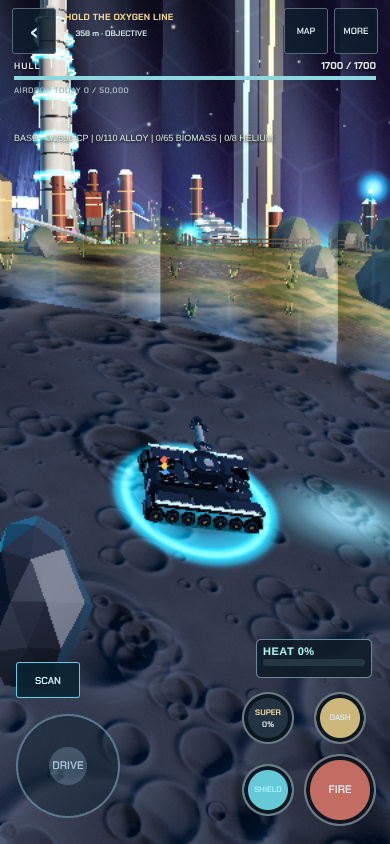
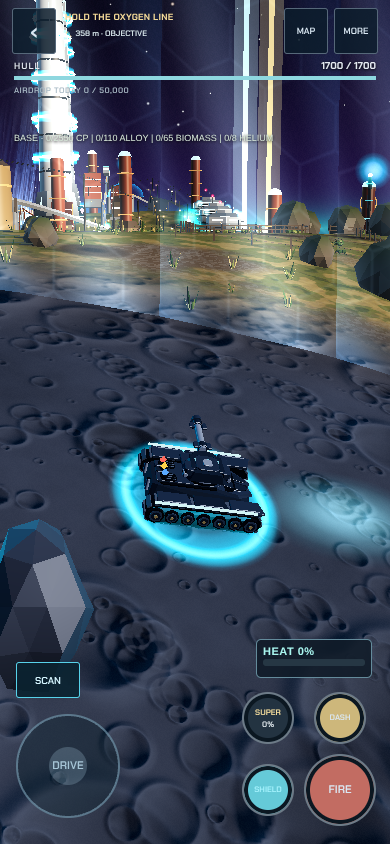
perf(conquest): atmosphere veil drawn by the FX program — HIGH back to 16 material programs (README budget); build stamp 20261108092850
CI transmission (Chromium/WebKit) measured 17 HIGH material programs after the Phase 2 water and the art-pass veil.
The veil keeps its exact look (raw additive, no fog/tone mapping) via an early-return branch selected by aCol.a < 0.
Local: conquest-living-war.py --quality high PASS, 16 programs, 73 max draws.

Claude-Session: https://claude.ai/code/session_014ynx7xCv3tSDnJ7wyXFxPb

diff --git a/js/conquest/style.js b/js/conquest/style.js
@@ -163,20 +163,27 @@ void main(){vec3 N=normalize(vN),L=uSunV,R=uRimV,UP=uUpV; // view-space light di
 #include <fog_fragment>
 }`;
 // Billboards (aBill.z = 1) expand in view space by aBill.xy × the object's scale, so pooled effects scale with the mesh.
-const FX_VS=`attribute vec4 aCol;attribute vec3 aBill;uniform vec3 uKind[4];varying vec4 vCol;varying vec2 vUv;
+const FX_VS=`attribute vec4 aCol;attribute vec3 aBill;uniform vec3 uKind[4];varying vec4 vCol;varying vec2 vUv;varying vec3 vWP;
 #include <common>
 #include <fog_pars_vertex>
-void main(){vUv=uv;vCol=aCol;vec4 mvPosition=vec4(position,1.);float bs=length(modelMatrix[0].xyz);   // a billboard's 4 corners store its centre (merged Fx) or the origin (instanced P.bill)
+void main(){vUv=uv;vCol=aCol;vWP=(modelMatrix*vec4(position,1.)).xyz;vec4 mvPosition=vec4(position,1.);float bs=length(modelMatrix[0].xyz);   // a billboard's 4 corners store its centre (merged Fx) or the origin (instanced P.bill)
 #ifdef USE_INSTANCING
  mvPosition=instanceMatrix*mvPosition;bs*=length(instanceMatrix[0].xyz);float k=instanceMatrix[2].z;vCol.rgb*=k<1.5?uKind[0]:k<2.5?uKind[1]:k<3.5?uKind[2]:uKind[3];
 #endif
  mvPosition=modelViewMatrix*mvPosition;mvPosition.xy+=aBill.xy*bs;mvPosition.z+=length(aBill.xy)*bs*.55;gl_Position=projectionMatrix*mvPosition;
 #include <fog_vertex>
 }`;
-const FX_FS=`uniform sampler2D uMap;uniform float uFade;varying vec4 vCol;varying vec2 vUv;
+const FX_FS=`uniform sampler2D uMap;uniform float uFade,uTime,uAtmo,uHigh;varying vec4 vCol;varying vec2 vUv;varying vec3 vWP;
 #include <common>
 #include <fog_pars_fragment>
-void main(){vec4 t=texture2D(uMap,vUv);vec3 e=vCol.rgb*t.r*uFade;float o=vCol.a*t.g*uFade;
+float hexL(vec2 p){const vec2 r=vec2(1.,1.7320508);vec2 h=r*.5;vec2 a=mod(p,r)-h;vec2 b=mod(p-h,r)-h;vec2 g=dot(a,a)<dot(b,b)?a:b;vec2 q=abs(g);return .5-max(dot(q,vec2(.5,.8660254)),q.x);}
+void main(){vec4 t=texture2D(uMap,vUv);
+ // The atmosphere boundary veil (aCol.a < 0): rising light bands + faint hex lattice, strongest at the ground and at grazing
+ // angles; raw additive output (alpha 0 under premultiplied blending), no fog, tone mapping or colour conversion, as authored.
+ if(vCol.a<0.){vec3 V=normalize(cameraPosition-vWP);float y=vUv.y,base=exp(-y*3.)*.9+exp(-y*.8)*.4+exp(-y*60.)*1.5,band=.5+.5*sin(vUv.x*.21+y*9.-uTime*1.3),sh=.6+.4*sin(vUv.x*.9-uTime*2.1+y*14.);
+  float hx=uHigh>.5?(1.-smoothstep(0.,.04,hexL(vec2(vUv.x*.25,y*14.))))*.18:0.;float graz=1.-abs(V.y)*.5;float a=(base*(.55+.45*band)*sh+hx*exp(-y*2.))*graz*mix(1.,.14,uAtmo)*smoothstep(1.,.55,y);
+  gl_FragColor=vec4(mix(vec3(.35,.7,1.),vec3(.75,.9,1.),band)*a*.42,0.);return;}
+ vec3 e=vCol.rgb*t.r*uFade;float o=vCol.a*t.g*uFade;
 #ifdef USE_FOG
  float f=1.-smoothstep(fogNear,fogFar,vFogDepth);e*=f;o*=f;
 #endif
@@ -215,16 +222,6 @@ void main(){vec3 d=normalize(vDir);vec3 col;
 #include <tonemapping_fragment>
 #include <colorspace_fragment>
 }`;
-// The atmosphere boundary: an additive shimmering veil (rising light bands + faint hex lattice), strongest at the ground and
-// at grazing view angles, so crossing the zone edge reads as passing through the atmosphere of another world.
-const VEIL_VS=`varying vec2 vUv;varying vec3 vWP;
-#include <common>
-void main(){vUv=uv;vec4 wp=modelMatrix*vec4(position,1.);vWP=wp.xyz;gl_Position=projectionMatrix*viewMatrix*wp;}`;
-const VEIL_FS=`uniform float uTime,uAtmo,uHigh;varying vec2 vUv;varying vec3 vWP;
-float hexL(vec2 p){const vec2 r=vec2(1.,1.7320508);vec2 h=r*.5;vec2 a=mod(p,r)-h;vec2 b=mod(p-h,r)-h;vec2 g=dot(a,a)<dot(b,b)?a:b;vec2 q=abs(g);return .5-max(dot(q,vec2(.5,.8660254)),q.x);}
-void main(){vec3 V=normalize(cameraPosition-vWP);float y=vUv.y,base=exp(-y*3.)*.9+exp(-y*.8)*.4+exp(-y*60.)*1.5,band=.5+.5*sin(vUv.x*.21+y*9.-uTime*1.3),sh=.6+.4*sin(vUv.x*.9-uTime*2.1+y*14.);
- float hx=uHigh>.5?(1.-smoothstep(0.,.04,hexL(vec2(vUv.x*.25,y*14.))))*.18:0.;float graz=1.-abs(V.y)*.5;float a=(base*(.55+.45*band)*sh+hx*exp(-y*2.))*graz*mix(1.,.14,uAtmo)*smoothstep(1.,.55,y);
- vec3 c=mix(vec3(.35,.7,1.),vec3(.75,.9,1.),band)*a*.42;gl_FragColor=vec4(c,1.);}`;   // additive (SRC_ALPHA, ONE): alpha 1 adds c
 // Energy shell: additive fresnel rim + moving hex scan, transparent, never writes depth.
 const SHIELD_VS=`varying vec3 vN;varying vec3 vV;varying vec3 vP;
 void main(){vP=position;vec4 mv=modelViewMatrix*vec4(position,1.);vN=normalize(normalMatrix*normal);vV=-mv.xyz;gl_Position=projectionMatrix*mv;}`;
@@ -355,7 +352,6 @@ function create(T,opts={}){
    uZenith:{value:V3(.0002,.0003,.0009)},uBandA:{value:V3(0,.2,.19)},uBandB:{value:V3(.045,.012,.11)},uFogC:{value:V3(.0018,.0021,.0048)}},{fog:false,depthWrite:false,side:T.DoubleSide})};
  const shieldMat=(color,opacity,hexK=1,side=T.DoubleSide)=>{const m=new T.ShaderMaterial({uniforms:{uColor:{value:lin(color)},uTime:U.uTime,uOpacity:{value:opacity},uHex:{value:hexK}},vertexShader:SHIELD_VS,fragmentShader:SHIELD_FS,transparent:true,premultipliedAlpha:true,depthWrite:false,blending:T.AdditiveBlending,side});m.userData.motionSkip=true;m.userData.conquestStyle=true;return m;};
  MAT.shield=shieldMat(0x48d8ff,.85);MAT.field=shieldMat(0x2dd4ff,.32,.12,T.FrontSide);
- MAT.veil=new T.ShaderMaterial({uniforms:{uTime:U.uTime,uAtmo:U.uAtmo,uHigh:U.uHigh},vertexShader:VEIL_VS,fragmentShader:VEIL_FS,transparent:true,depthWrite:false,blending:T.AdditiveBlending,side:T.DoubleSide});MAT.veil.userData.conquestStyle=true;MAT.veil.userData.motionSkip=true;
  // Additive glow/decal draws are never tap targets (view pick() and the browser bots skip userData.noPick).
  const fxMesh=(geo,order=2)=>{const m=new T.Mesh(geo,MAT.fx);m.renderOrder=order;m.userData.noPick=true;return m;};
  const S={id:'neon-frontline',version:1,low,high,software,T,U,MAT,G,AT,SIGN,K,tex,footprints:F,shared:[],ground};
@@ -656,8 +652,9 @@ const billGeo=(r,col,o=0)=>{const X=new Fx();X.keep=true;X.bill(0,0,0,1,r,col,o)
    P.push(a[0],ya,a[1],b[0],yb,b[1],b[0]+(c[0]-b[0])/ib*lean,yb+H,b[1]+(c[1]-b[1])/ib*lean,a[0]+(c[0]-a[0])/ia*lean,ya+H,a[1]+(c[1]-a[1])/ia*lean);const L=Math.hypot(b[0]-a[0],b[1]-a[1]);Q.push(0,0,L,0,L,1,0,1);I.push(n,n+1,n+2,n,n+2,n+3);};
   const lerp=(p,q,a,b)=>{const t=a/(a-b);return [p[0]+(q[0]-p[0])*t,p[1]+(q[1]-p[1])*t];};
   for(let j=0;j<nz;j++)for(let i=0;i<nx;i++){const c=[[i,j],[i+1,j],[i+1,j+1],[i,j+1]].map(([a,b])=>[x0+a*step,z0+b*step,v(a,b)]),e=[];for(let k=0;k<4;k++){const p=c[k],q=c[(k+1)%4];if(p[2]>0!==q[2]>0)e.push(lerp(p,q,p[2],q[2]));}if(e.length===2)seg(e[0],e[1]);else if(e.length===4){seg(e[0],e[1]);seg(e[2],e[3]);}}
-  const geo=new T.BufferGeometry();geo.setAttribute('position',new T.Float32BufferAttribute(P,3));geo.setAttribute('uv',new T.Float32BufferAttribute(Q,2));geo.setIndex(I);geo.computeBoundingSphere();
-  const m=new T.Mesh(geo,MAT.veil);m.renderOrder=4;m.frustumCulled=false;m.userData.noPick=true;m.name='cq-atmosphere-veil';return m;};
+  const nV=P.length/3,geo=new T.BufferGeometry();geo.setAttribute('position',new T.Float32BufferAttribute(P,3));geo.setAttribute('uv',new T.Float32BufferAttribute(Q,2));
+  geo.setAttribute('aCol',new T.Float32BufferAttribute(new Float32Array(nV*4).map((_,i)=>i%4===3?-1:1),4));geo.setAttribute('aBill',new T.Float32BufferAttribute(new Float32Array(nV*3),3));geo.setIndex(I);geo.computeBoundingSphere();
+  const m=new T.Mesh(geo,MAT.fx);m.renderOrder=4;m.frustumCulled=false;m.userData.noPick=true;m.name='cq-atmosphere-veil';return m;};
 
  // ---------- sky + lights ----------
  S.environment=(scene,renderer)=>{
@@ -939,7 +936,7 @@ const billGeo=(r,col,o=0)=>{const X=new Fx();X.keep=true;X.bill(0,0,0,1,r,col,o)
  // Static groups are culled by distance (they are far apart); cheap per-frame loop.
  S.cull=(groups,p)=>{const k=software?.4:1;for(const g of groups){const s=g.userData.site;if(s)g.visible=Math.hypot(s.x-p.x,s.z-p.z)<s.range*k;}};
  // Compile every program variant once (static + instanced solid/fx, sky, terrain, shields) before play.
- S.warmObjects=()=>{const objs=[new T.Mesh(G.box,MAT.solid),new T.InstancedMesh(G.box,MAT.solid,1),new T.Mesh(P.bill,MAT.fx),new T.InstancedMesh(P.bill,MAT.fx,1),new T.Mesh(G.ico,MAT.shield),new T.Mesh(G.ico,MAT.field),new T.Mesh(waterWarmGeo,MAT.water),new T.Mesh(waterWarmGeo,MAT.veil)];
+ S.warmObjects=()=>{const objs=[new T.Mesh(G.box,MAT.solid),new T.InstancedMesh(G.box,MAT.solid,1),new T.Mesh(P.bill,MAT.fx),new T.InstancedMesh(P.bill,MAT.fx,1),new T.Mesh(G.ico,MAT.shield),new T.Mesh(G.ico,MAT.field),new T.Mesh(waterWarmGeo,MAT.water)];
   for(const o of objs)if(o.isInstancedMesh){o.setMatrixAt(0,new T.Matrix4());o.instanceMatrix.needsUpdate=true;}return objs;};
  S.canvas={bg:'#03060c',grid:'#12303d',cover:'#3c2a46',coverEdge:'#ff4fd8',site:'#8ff6ff',hostile:'#ff4fd8',friend:'#3fe9ff',beacon:['#3fe9ff','#ffc45a'],shot:'#d8faff',enemyShot:'#ff6bd6'};
  S.dispose=()=>{for(const g of S.shared)g.dispose();for(const m of Object.values(MAT))m.dispose();tex.atlas.dispose();tex.earth.dispose();tex.detail.dispose();glowCache.clear();ringCache.clear();batteryCache=droneCache=null;S.shared.length=0;};

diff --git a/index.html b/index.html
@@ -19,7 +19,7 @@
 <script>
 // Auto-update: phones and GitHub's CDN can keep an old copy for ~10 min. version.json is fetched fresh;
 // if it's newer than this page, reload with ?v=<new> (a URL the cache has never seen). Telegram data in the #hash is kept.
-window.BUILD='20261108090757';
+window.BUILD='20261108092850';
 fetch('version.json?t='+Date.now(),{cache:'no-store'}).then(r=>r.json()).then(j=>{
  const q=new URLSearchParams(location.search);
  if(j&&j.v&&j.v!==window.BUILD&&q.get('v')!==j.v){q.set('v',j.v);location.replace(location.pathname+'?'+q.toString()+location.hash);}
@@ -30,13 +30,13 @@ fetch('version.json?t='+Date.now(),{cache:'no-store'}).then(r=>r.json()).then(j=
 <link rel="preconnect" href="https://warmachines-a6034-default-rtdb.firebaseio.com">
 <link rel="preload" href="fonts/chakra-petch-700.woff" as="font" type="font/woff" crossorigin>
 <link rel="preload" href="fonts/chakra-petch-600.woff" as="font" type="font/woff" crossorigin>
-<link rel="stylesheet" href="css/app.css?v=20261108090757">
+<link rel="stylesheet" href="css/app.css?v=20261108092850">
 <link rel="icon" type="image/png" sizes="32x32" href="favicon-32.png">
 <link rel="icon" type="image/png" sizes="512x512" href="icon.png">
 <link rel="apple-touch-icon" href="icon-180.png">
 <meta property="og:image" content="https://solb7403-creator.github.io/war-machines/icon.png">
-<link rel="stylesheet" href="css/environment.css?v=20261108090757">
-<link rel="stylesheet" href="css/conquest.css?v=20261108090757">
+<link rel="stylesheet" href="css/environment.css?v=20261108092850">
+<link rel="stylesheet" href="css/conquest.css?v=20261108092850">
 </head>
 <body>
 <canvas id="c"></canvas>
@@ -60,33 +60,33 @@ fetch('version.json?t='+Date.now(),{cache:'no-store'}).then(r=>r.json()).then(j=
 <div id="layer"></div>
 <div class="toast" id="toast" role="status" aria-live="polite"></div>
 <div id="sab"></div>
-<script src="js/rules.js?v=20261108090757"></script>
-<script src="js/core.js?v=20261108090757"></script>
-<script src="js/net.js?v=20261108090757"></script>
-<script src="js/game.js?v=20261108090757"></script>
-<script src="js/match.js?v=20261108090757"></script>
-<script src="js/pvp.js?v=20261108090757"></script>
-<script src="js/render.js?v=20261108090757"></script>
-<script src="js/models3d.js?v=20261108090757"></script>
-<script src="js/graphics.js?v=20261108090757"></script><script src="js/equipment3d.js?v=20261108090757"></script>
-<script src="js/environment3d.js?v=20261108090757"></script>
-<script src="js/showroom.js?v=20261108090757"></script>
-<script src="js/proof.js?v=20261108090757"></script>
-<script src="js/render3d.js?v=20261108090757"></script>
-<script src="js/fx.js?v=20261108090757"></script>
-<script src="js/ui.js?v=20261108090757"></script>
-<script src="js/range.js?v=20261108090757"></script>
-<script src="js/conquest/world.js?v=20261108090757"></script>
-<script src="js/conquest/discovery.js?v=20261108090757"></script>
-<script src="js/conquest/progress.js?v=20261108090757"></script>
-<script src="js/conquest/combat.js?v=20261108090757"></script>
-<script src="js/conquest/controls.js?v=20261108090757"></script>
-<script src="js/conquest/session.js?v=20261108090757"></script>
-<script src="js/conquest/catalog.js?v=20261108090757"></script>
-<script src="js/conquest/assets.js?v=20261108090757"></script>
-<script src="js/conquest/style.js?v=20261108090757"></script>
-<script src="js/conquest/view.js?v=20261108090757"></script>
-<script src="js/conquest/app.js?v=20261108090757"></script>
-<script src="js/main.js?v=20261108090757"></script>
+<script src="js/rules.js?v=20261108092850"></script>
+<script src="js/core.js?v=20261108092850"></script>
+<script src="js/net.js?v=20261108092850"></script>
+<script src="js/game.js?v=20261108092850"></script>
+<script src="js/match.js?v=20261108092850"></script>
+<script src="js/pvp.js?v=20261108092850"></script>
+<script src="js/render.js?v=20261108092850"></script>
+<script src="js/models3d.js?v=20261108092850"></script>
+<script src="js/graphics.js?v=20261108092850"></script><script src="js/equipment3d.js?v=20261108092850"></script>
+<script src="js/environment3d.js?v=20261108092850"></script>
+<script src="js/showroom.js?v=20261108092850"></script>
+<script src="js/proof.js?v=20261108092850"></script>
+<script src="js/render3d.js?v=20261108092850"></script>
+<script src="js/fx.js?v=20261108092850"></script>
+<script src="js/ui.js?v=20261108092850"></script>
+<script src="js/range.js?v=20261108092850"></script>
+<script src="js/conquest/world.js?v=20261108092850"></script>
+<script src="js/conquest/discovery.js?v=20261108092850"></script>
+<script src="js/conquest/progress.js?v=20261108092850"></script>
+<script src="js/conquest/combat.js?v=20261108092850"></script>
+<script src="js/conquest/controls.js?v=20261108092850"></script>
+<script src="js/conquest/session.js?v=20261108092850"></script>
+<script src="js/conquest/catalog.js?v=20261108092850"></script>
+<script src="js/conquest/assets.js?v=20261108092850"></script>
+<script src="js/conquest/style.js?v=20261108092850"></script>
+<script src="js/conquest/view.js?v=20261108092850"></script>
+<script src="js/conquest/app.js?v=20261108092850"></script>
+<script src="js/main.js?v=20261108092850"></script>
 </body>
 </html>

diff --git a/docs/conquest/IMPLEMENTATION_CHECKPOINT.md b/docs/conquest/IMPLEMENTATION_CHECKPOINT.md
@@ -953,7 +953,7 @@ Nothing was half-done. Polish candidates stay for the later look session: crop r
 
 | Quality | Draws | Triangles | Programs | Page errors |
 |---|---|---|---|---|
-| HIGH | 50–78 | 119k–205k | 17 | 0 |
+| HIGH | 50–78 | 119k–205k | 16 (budget ≤ 16) | 0 |
 | LOW | 47–68 | 104k–142k | — | 0 |
 
 - Journey evidence regenerated on the final code: `docs/economy/phase1`, `phase2`, `phase3`.
@@ -965,7 +965,10 @@ Nothing was half-done. Polish candidates stay for the later look session: crop r
    - Every other defense battle plays out the same as on `main`, undefended (checked on both).
 2. **`conquest-corrections`.** Exact-travel probes did not allow for the paved-road +15%.
    - Fix: a shared `World.speedFactor`, used by `advance()` and by every footing probe (server footing, client safe footing, travel arrivals).
-3. **`conquest-frontier-recovery`.** The test bot drove over a normal 18 CP kill-salvage drop mid-fight.
+3. **HIGH program budget (CI `transmission`, Chromium and WebKit).** The Phase 2 water and the art-pass veil had pushed HIGH to 17 material programs, over the README contract of ≤ 16.
+   - Fix: the veil now draws through the existing FX program, with an early raw-additive return, so it looks exactly as before.
+   - The relay fight now measures 16 programs and 73 draws.
+4. **`conquest-frontier-recovery`.** The test bot drove over a normal 18 CP kill-salvage drop mid-fight.
    - The test now separates verified mid-fight kill salvage from the settlement, and asserts the settlement equals the authored reward.
 
 ### Independent reviews (2 read-only agents, given only the branch, head SHA, briefs and this checkpoint)
